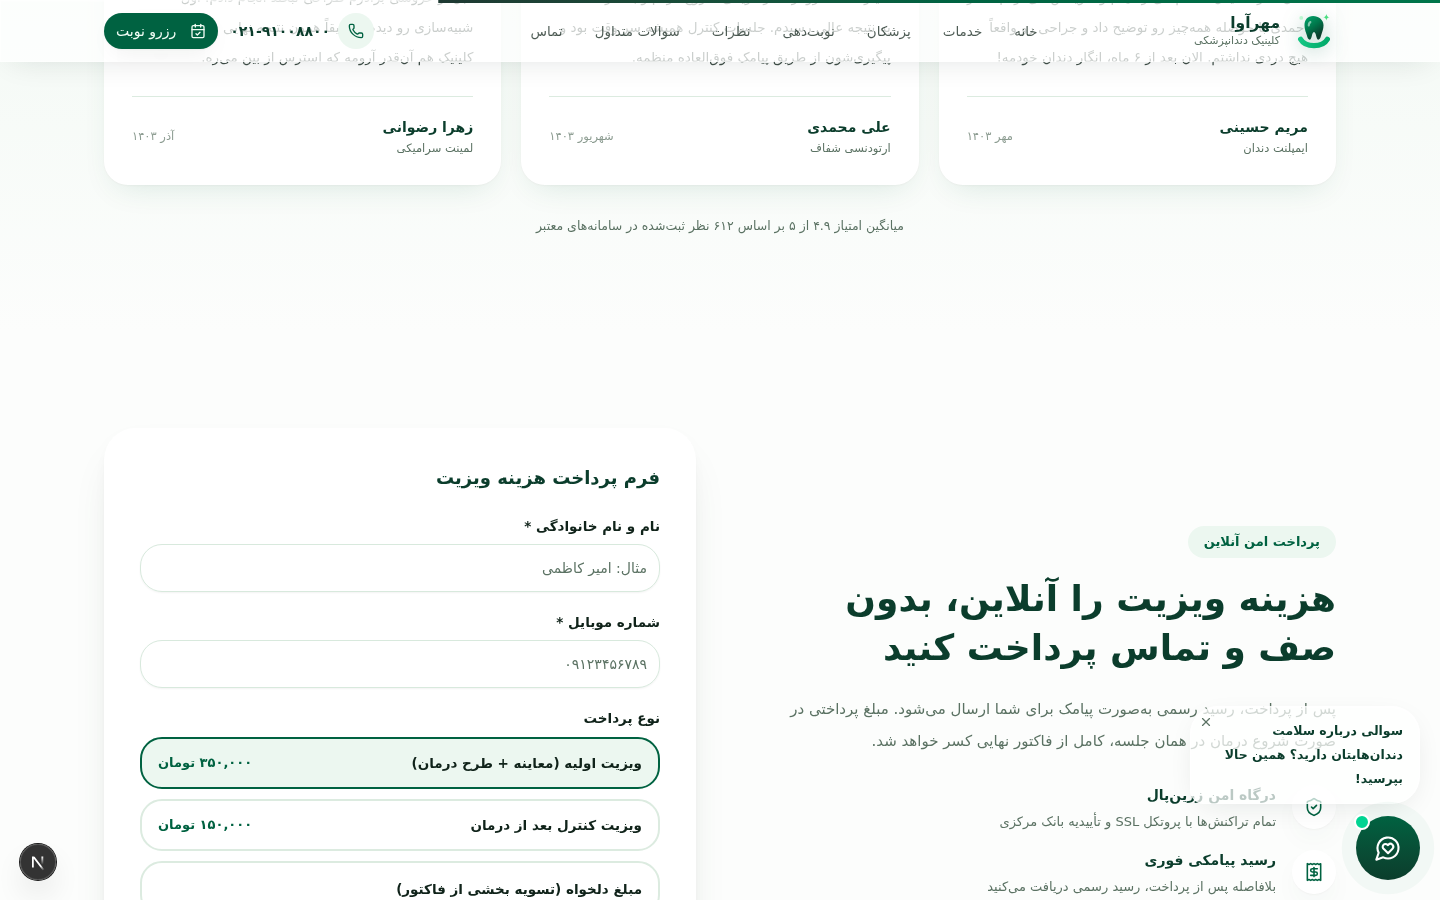
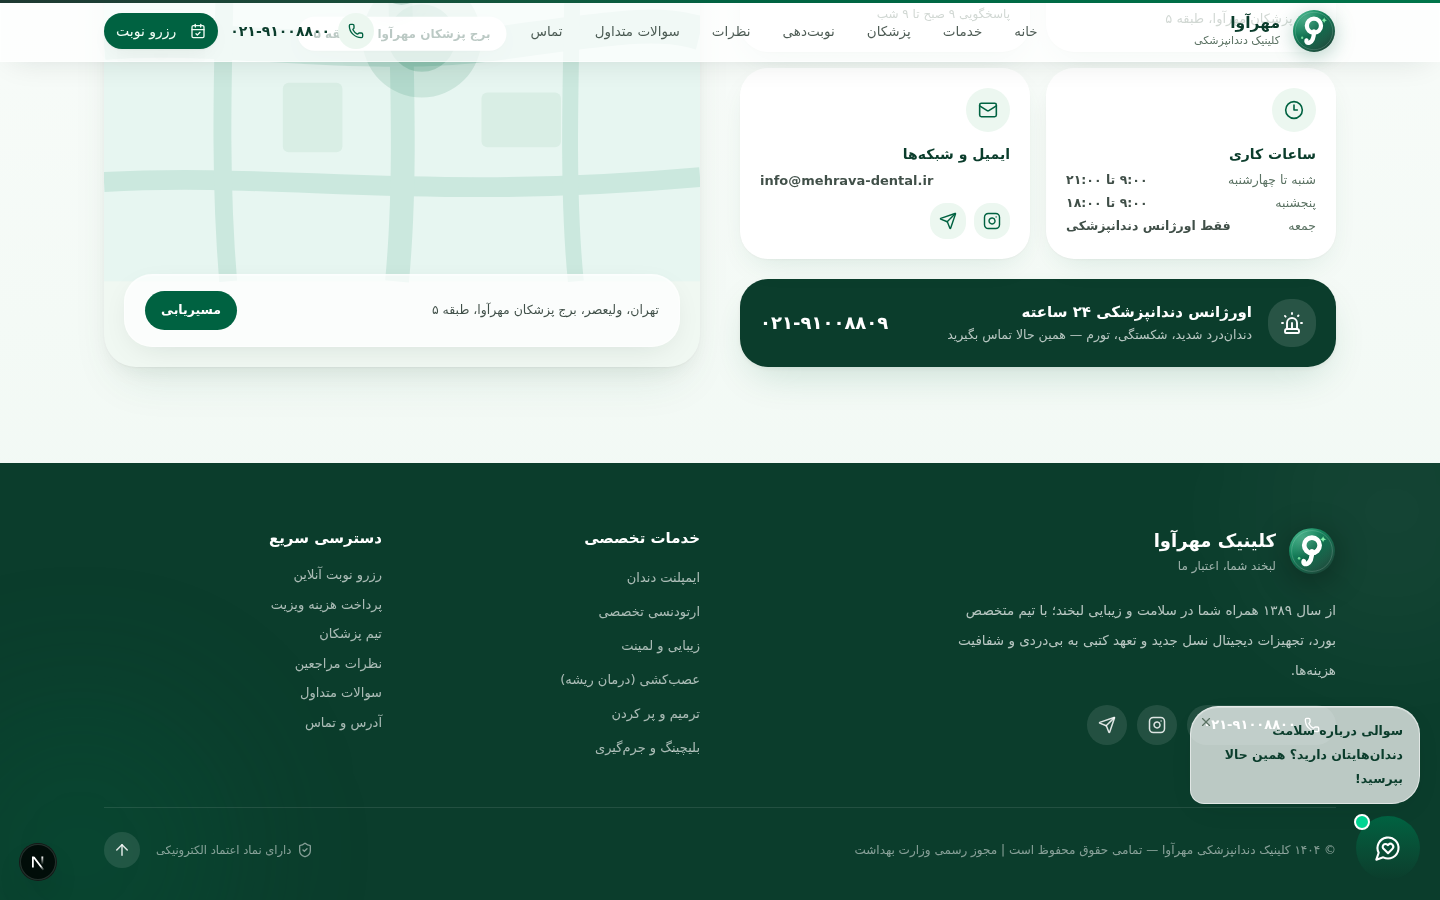
85d593e7-e517-47bc-951e-05f3ff97d0a8

diff --git a/src/components/site/footer.tsx b/src/components/site/footer.tsx
@@ -15,8 +15,8 @@ export function Footer() {
           {/* برند */}
           <div className="lg:col-span-2 max-w-sm">
             <div className="flex items-center gap-3">
-              <span className="w-12 h-12 rounded-2xl bg-white/10 border border-white/12 flex items-center justify-center">
-                <Image src="/logo.svg" alt="لوگوی کلینیک مهرآوا" width={36} height={36} />
+              <span className="relative w-12 h-12 drop-shadow-[0_6px_16px_rgba(0,0,0,0.35)]">
+                <Image src="/logo.svg" alt="لوگوی کلینیک مهرآوا" width={48} height={48} />
               </span>
               <div>
                 <p className="font-extrabold text-white text-lg">کلینیک مهرآوا</p>

diff --git a/src/components/site/header.tsx b/src/components/site/header.tsx
@@ -94,7 +94,7 @@ export function Header() {
             </SheetTrigger>
             <SheetContent side="right" className="w-[300px] rounded-s-3xl">
               <SheetHeader>
-                <SheetTitle className="flex items-center gap-2.5 text-teal-deep">
+                <SheetTitle className="flex items-center gap-2.5 text-teal-deep ps-10">
                   <Image src="/logo.svg" alt="" width={30} height={30} />
                   منوی کلینیک مهرآوا
                 </SheetTitle>

diff --git a/scripts/v4_zoom_logo.py b/scripts/v4_zoom_logo.py
@@ -1,0 +1,23 @@
+from PIL import Image
+
+base = "/home/z/my-project/scripts/"
+
+# هدر دسکتاپ (لوگو در RTL سمت راست-بالا)
+img = Image.open(base + "v4-desktop.png")
+w, h = img.size
+header = img.crop((w - 420, 0, w, 110)).resize((420 * 3, 110 * 3), Image.LANCZOS)
+header.save(base + "v4-zoom-header.png")
+
+# فوتر (لوگو سمت راست بلوک برند)
+f = Image.open(base + "v4-footer.png")
+fw, fh = f.size
+footer = f.crop((fw - 420, 0, fw, 200)).resize((420 * 3, 200 * 3), Image.LANCZOS)
+footer.save(base + "v4-zoom-footer.png")
+
+# موبایل (لوگوی هدر موبایل + منو لازم نیست)
+m = Image.open(base + "v4-mobile.png")
+mw, mh = m.size
+mob = m.crop((mw - 220, 0, mw, 100)).resize((220 * 4, 100 * 4), Image.LANCZOS)
+mob.save(base + "v4-zoom-mobile.png")
+
+print("done", img.size, f.size, m.size)

diff --git a/worklog.md b/worklog.md
@@ -93,3 +93,21 @@ Stage Summary:
 - لوگو اکنون نشان ارگانیک «دندان روی قوس لبخند + درخشش مهر» است — کاملاً متمایز از دو نسخه قبلی (دندان تخت → سکویرل بج → نشان باز لبخند)
 - کنتراست در هر سه بستر تأیید شد: هدر روشن، فوتر تیره (چیپ شیشهای)، فاوآیکون
 - بدون تغییر منطقی؛ همه جریانها سالم
+
+---
+Task ID: 5
+Agent: main (Super Z)
+Task: تعویض لوگو بهدرخواست مجدد کاربر («چرا لوگوی سایت رو عوض نمیکنی؟») — نسخه چهارم: مونوگرام «م»
+
+Work Log:
+- طراحی نسخه چهارم public/logo.svg: مونوگرام تایپوگرافیک «م» (مهرآوا) داخل بج دایرهای گرادیان برند (#0F9D68→#006241→#0B3D2C) — مفهوم کاملاً متمایز از سه نسخه قبل (دندان تخت → سکویرل بج → نشان باز لبخند): این بار نشان حرفی/مونوگرام
+- ساختار: دایره بج + هاله شعاعی عمق (radialGradient، بهجای sheen خطی قبلی) + حلقه داخلی ظریف + «م» استروکی سفید (سرِ دایرهای r=10.3 + دم جارویی با قلاب رو به بالا، stroke 6.2 round cap) + ستاره چهارپر درخشش نعنایی #86EFAC بالا-راست + دانه نور پایین-چپ
+- footer.tsx: حذف چیپ شیشهای white/10 (که برای نسخه شفاف قبلی لازم بود) → نمایش مستقیم بج ۴۸px با سایه تیره؛ کنتراست روی فوتر جنگلی تأیید شد
+- header.tsx (منوی موبایل): رفع همپوشانی قدیمی دکمه بستن Sheet با لوگو با ps-10 روی SheetTitle — X اکنون جدا و منو تمیز است
+- favicon و JSON-LD (layout.tsx): همان فایل واحد /logo.svg — خودکار بهروز
+- رگرسیون: eslint پاک (header/footer)، دسکتاپ ۱۴۴۰ (هدر + فوتر با کراپ زوم)، موبایل iPhone 14 (هیرو + منو)، بدون خطای صفحه
+
+Stage Summary:
+- لوگو اکنون «بج دایرهای سبز با مونوگرام سفید م» است — خوانا در ۳۰px (منو)، ۴۴px (هدر)، ۴۸px (فوتر) و فاوآیکون
+- اصلاح جانبی: همپوشانی X منوی موبایل با لوگو برطرف شد
+- بدون تغییر منطقی؛ نوبتدهی/پرداخت/چتبات دستنخورده و سالم
